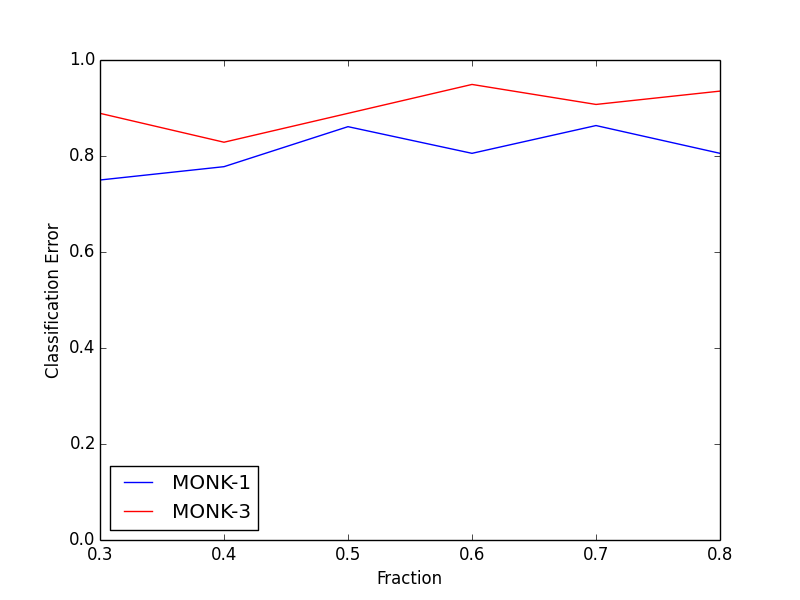
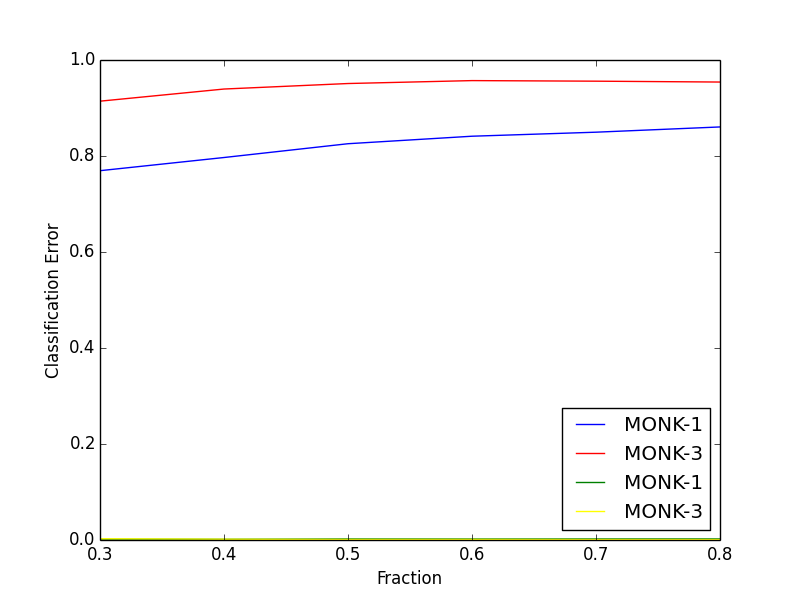
ass 7 plot

diff --git a/dectrees/python/pruning.py b/dectrees/python/pruning.py
@@ -2,6 +2,7 @@ import monkdata as m
 import dtree as dtree
 import drawtree_qt5 as drawLib
 import random
+import numpy
 import matplotlib.pyplot as plt
 
 # creates 2 partition of a dataset with random shuffling
@@ -44,28 +45,57 @@ datasets = [{
 }]
 
 fractions = [0.3, 0.4, 0.5, 0.6, 0.7, 0.8]
-results = {'monk1': [], 'monk3': []}
+
+results = {'monk1': [[0 for x in range(100)] for y in range(6)] , 'monk3': [[0 for x in range(100)] for y in range(6)]}
 # split the dataset in training and validation set. Building
 # the tree from the training set. 
 
 for dataset in datasets: 
     print "\n\nDataset:     ", dataset['name']
+    index = 0
     for f in fractions: 
         print "\n\nFraction:    ", f
-        monktrain, monkval = partition(dataset['ref'], f)
-        # build the dtree from the training set
-        decisionTree = dtree.buildTree(monktrain, m.attributes)
-        candidate = myPrune(decisionTree, monkval, dataset['test'])
-        results[dataset['name']].append(dtree.check(candidate, dataset['test']))
+        for i in range(100):
+            monktrain, monkval = partition(dataset['ref'], f)
+            # build the dtree from the training set
+            decisionTree = dtree.buildTree(monktrain, m.attributes)
+            candidate = myPrune(decisionTree, monkval, dataset['test'])
+            results[dataset['name']][index][i] = dtree.check(candidate, dataset['test'])
+        
+        index += 1    
 
 print "\nResults:"
 print results
-plt.plot(fractions, results['monk1'], color="blue", label="MONK-1")
-plt.plot(fractions, results['monk3'], color="red", label="MONK-3")
+
+averages = {
+    'monk1': [],
+    'monk3': []
+}
+
+variances = {
+    'monk1': [],
+    'monk3': []
+}
+
+for x in results['monk1']:
+    averages['monk1'].append(numpy.mean(x))
+    variances['monk1'].append(numpy.var(x))
+
+for x in results['monk3']:
+    averages['monk3'].append(numpy.mean(x))  
+    variances['monk3'].append(numpy.var(x))
+
+print "Mean:        ", averages
+print "Variances:   ", variances
+
+plt.plot(fractions, averages['monk1'], color="blue", label="MONK-1")
+plt.plot(fractions, averages['monk3'], color="red", label="MONK-3")
+plt.plot(fractions, variances['monk1'], color="green", label="MONK-1")
+plt.plot(fractions, variances['monk3'], color="yellow", label="MONK-3")
 plt.axis([0.3, 0.8, 0, 1])
 plt.ylabel('Classification Error')
 plt.xlabel('Fraction')
-plt.legend(loc='bottom right')
+plt.legend(loc='lower right')
 plt.show()
 # for i in range(0,1000000):
 #     monk1train, monk1val = partition(m.monk1, 0.6)

diff --git a/README.md b/README.md
@@ -29,7 +29,7 @@ No distribution has high or low entropy per se. In general, discrete distributio
 When the probability of a particular event is far higher then the others, the uncertainty decreases accordingly. As an example, we can the take the overly-cited toss of a coin where the sides are equals. In this case the entropy is 0 because, no matter how we toss the coin, the result will be the same. Therefore, there is no uncertainty. Entropy is not an intrinsic property of a particular distribution, but instead, it depends on the parameters. 
 
 
-References: 
+**Reference**s: 
 - [Type of distributions](http://people.stern.nyu.edu/adamodar/New_Home_Page/StatFile/statdistns.htm)
 - [Entropy](https://en.wikipedia.org/wiki/Entropy_(information_theory)#Introduction)
 
@@ -72,5 +72,15 @@ On the other hand, bias refers to the error that is introduced by approximating 
 
 ### Assignment 7    
 
-Below we can see the plot for MONK-1 and MONK-3
-![alt text](https://github.com/filippoboiani/machine-learning/blob/master/plot.png "Fraction and Errors")
+Evaluation of the effect pruning has on the test error for the monk1 and monk3 datasets.
+
+Define the optimal partition into training and validation set. 
+
+![PLOT](https://github.com/filippoboiani/machine-learning/blob/master/plot.png "Fraction and Errors")
+
+Values | 0.3 | 0.4 | 0.5 | 0.6 | 0.7 | 0.8 
+--- | --- | --- | --- | --- | --- | --- 
+**MONK-1 Mean** | 0.769398 | 0.796851 | 0.825578 | 0.8412037 | 0.849606 | 0.8605324
+**MONK-3 Mean** | 0.914212 | 0.939513 | 0.950995 | 0.9570833 | 0.955879 | 0.9540740
+**MONK-1 Variance** | 0.001768237 | 0.001454166 | 0.002145209 | 0.0020444315 | 0.0021446818 | 0.002203936
+**MONK-3 Variance** | 0.002567924 | 0.001636194 | 0.001057961 | 0.0011084769 | 0.0008425304 | 0.000803189
